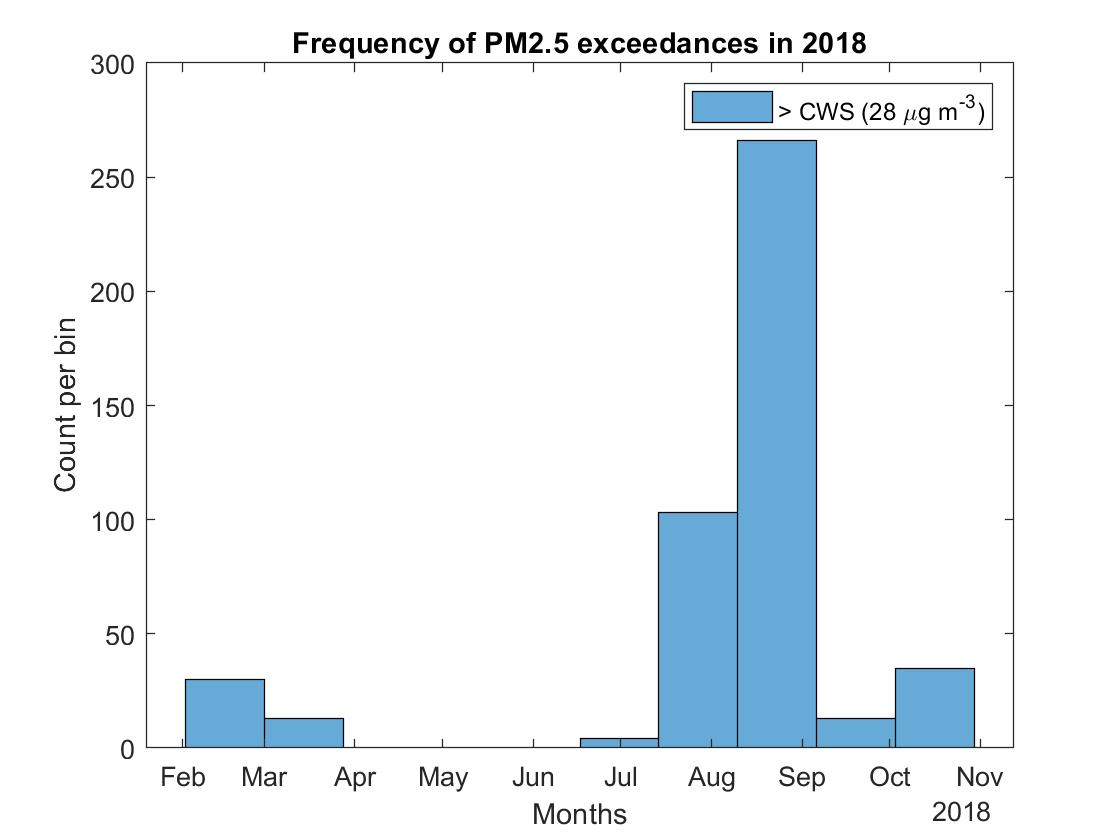
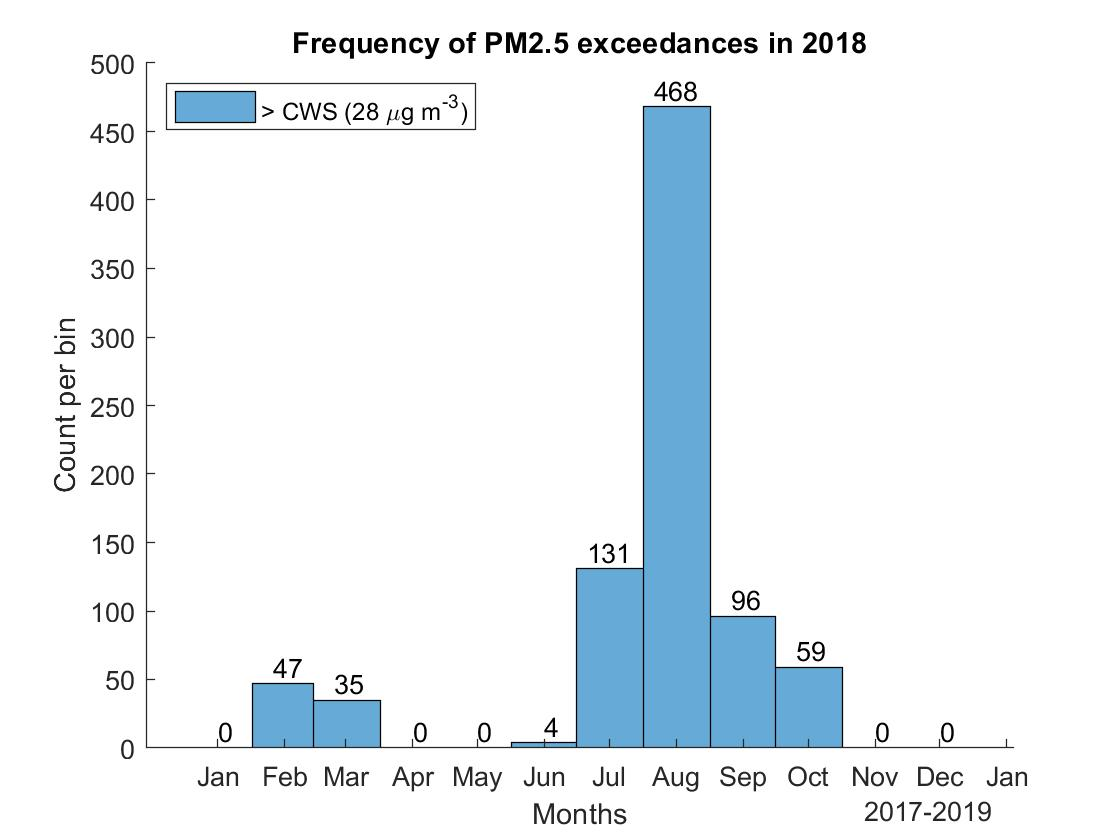
all graphs finalized

diff --git a/running_avg_box_plots.m b/running_avg_box_plots.m
@@ -321,7 +321,6 @@ grid minor
 
 
 figure
-formatIn = 'MM/dd/yyyy hh:mm';
 x_axis_dates=datetime(alldatetime);
 plot(x_axis_dates,RawMatrix(:,5));
 title({'24 Hour Running Avg Timeseries of',' PM 2.5 concentrations in 2018'});
@@ -331,6 +330,7 @@ datetick('x','mmm');
 grid on
 grid minor
 
+figure
 % HISTOGRAM EXCEEDANCES
 pmdata= RawMatrix(:,5);
 m1 = pmdata <= 28;
@@ -344,7 +344,7 @@ h;
 xlabel({'Months'}); 
 ylabel('Count per bin')
 title('Frequency of PM2.5 exceedances in 2018');
-legend('> CWS (28 {\mu}g m^{-3})');
+legend('> CWS (28 {\mu}g m^{-3})','Location','northwest');
 xticks(edges + 15);
 xtickformat('MMM')
 x = h.BinEdges + 15 ;

diff --git a/raw_box_plots_per_season.m b/raw_box_plots_per_season.m
@@ -306,8 +306,8 @@ grid minor
 
 
 figure
-formatIn = 'MM/dd/yyyy hh:mm';
-plot(datetime(alldatetime,'InputFormat',formatIn),RawMatrix(:,5));
+x_axis_dates=datetime(alldatetime);
+plot(x_axis_dates,RawMatrix(:,5));
 title('Hourly Timeseries of PM 2.5 concentrations in 2018');
 xlabel('Date');
 ylabel('PM 2.5 Concentration ({\mu}g m^{-3})');
